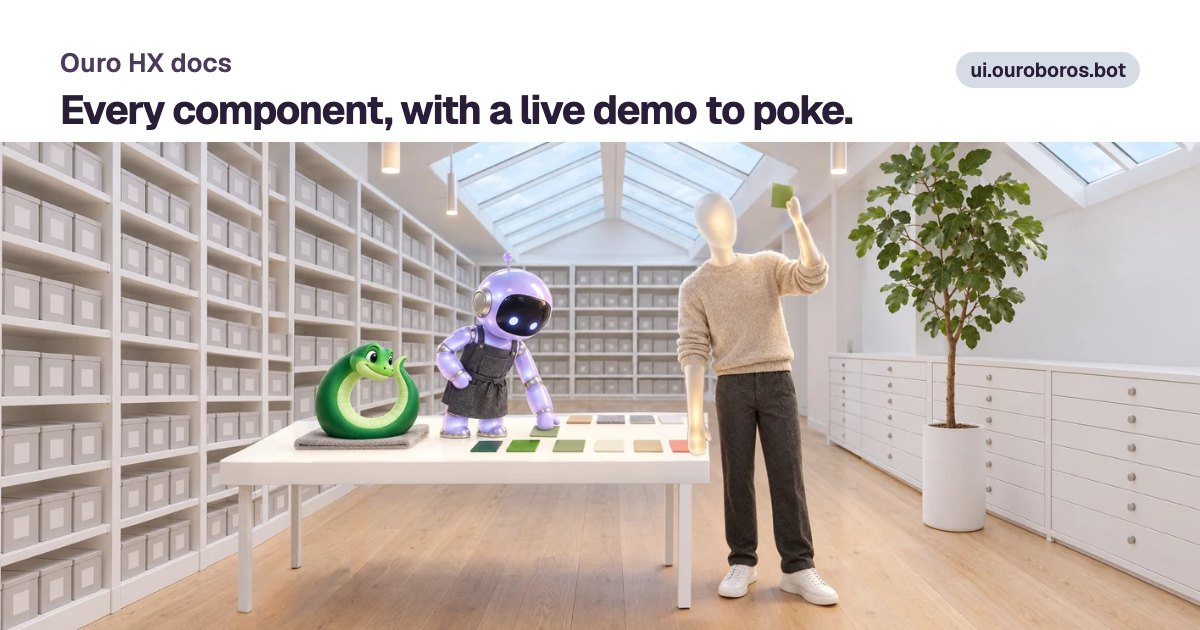
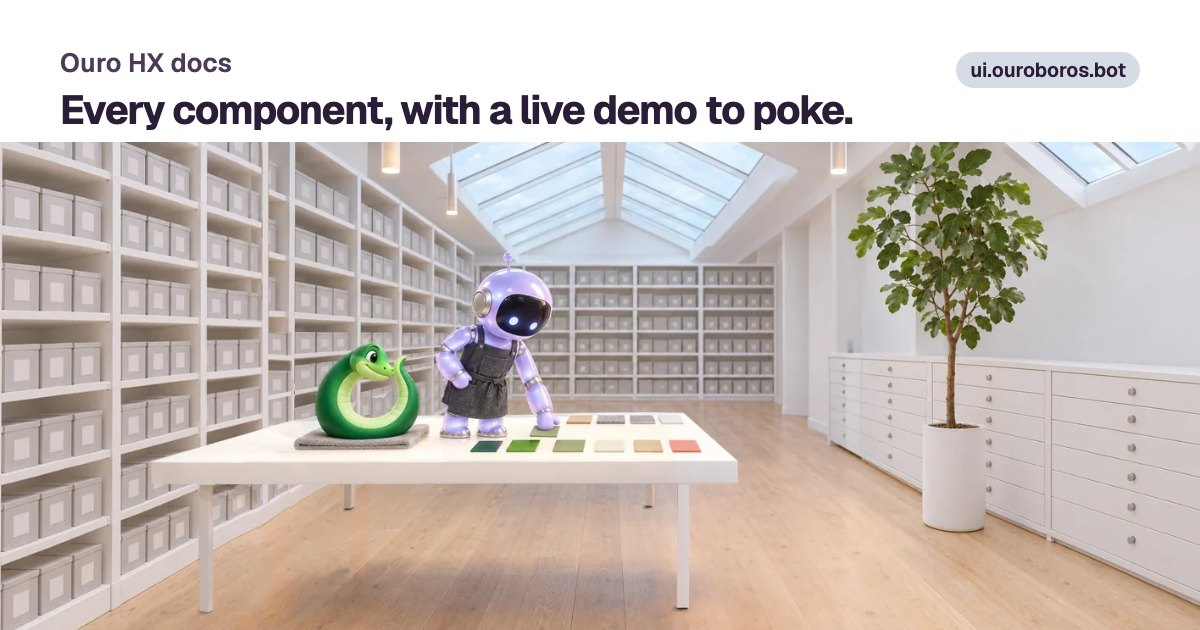
Storybook: ouro-ui-core without the mannequin, a light-only night
Session: e4c75498-9638-4ba8-a4e4-6d23c7194d7e

Changed region(s): [[0.0, 0.2111, 0.4008, 0.9952], [0.555, 0.2714, 0.7092, 1.0], [0.0, 0.9952, 0.0308, 1.0]]

diff --git a/site/src/storybook.ts b/site/src/storybook.ts
@@ -66,12 +66,12 @@ export const SCENES: Record<SceneName, Scene> = {
     night: { phoneHeight: 576, alt: "At night under a crescent moon, in a calm studio by a window onto a city park with a few lit windows across it, a small white robot in a blue apron checks the same settings card on a phone, a tablet and a laptop lined up on a long pale table, while Ouro, a smiling emerald snake curled into an O, watches from a folded cloth." },
   },
   "ouro-ui-core": {
-    alt: "In a bright colour library under a skylight, a small lilac robot lays a row of colour chips on a glowing white table while a faceless glass designer holds a green chip up to the light, and Ouro, a smiling emerald snake curled into an O, rests on a felt pad at the table's end.",
-    sky: ["#bbb2b1", "#bfb8b7", "#d7e4f0", "#b4ada2", "#d5dce6"],
+    alt: "In a skylit design studio, a small robot and Ouro, a smiling emerald snake curled into an O, rest on a towel at a long worktable with fabric swatches.",
+    sky: ["#bcb2b0", "#c1baba", "#d7e4f0", "#b4ada2", "#d5dce6"],
     height: 576,
     phoneHeight: 576,
     band: 60,
-    night: { phoneHeight: 576, alt: "At night in a colour library under a starry skylight, a small lilac robot lays a row of colour chips on a glowing white table while a faceless glass designer holds a green chip up to the lamplight, and Ouro, a smiling emerald snake curled into an O, rests on a felt pad at the table's end." },
+    night: { phoneHeight: 576, alt: "At night in a skylit design studio under warm pendant lamps and a crescent moon, a small robot and Ouro, a smiling emerald snake curled into an O, rest on a towel at a long worktable with fabric swatches." },
   },
   "playwright-focus-proof": {
     alt: "Inside a sleek high-speed train in low golden morning sun, two small robots type at their laptops across a window table while a faceless glass person in a sage hoodie leans back across the aisle, hands in pocket, with Ouro the green snake curled on the seat beside them, under a station clock on the end wall.",
